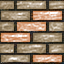
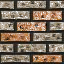
different levels for dungeon generation

diff --git a/src/dungeon/DungeonGenerator.java b/src/dungeon/DungeonGenerator.java
@@ -36,16 +36,43 @@ public class DungeonGenerator
 
         textbox = t;
     }
-    public int[][] getNewDungeon()
+    public int[][] getNewDungeon(int level)
     {
+        int[] texs = new int[3];
         this.mazeGen();
+        // convert maze into usable format of the engine
         for (int i = 0; i < dun.length; i++)
             for (int j = 0; j < dun[i].length; j++)
                 if (dun[i][j] == 0)
+                {
+                    switch (level)
+                    {
+                        case 1:
+                        {
+                            texs[0] = 1;
+                            texs[1] = 2;
+                            //texs[2] = 3;
+                            break;
+                        }
+                        case 2:
+                        {
+                            texs[0] = 3;
+                            texs[1] = 4;
+                            break;
+                        }
+                        case 3:
+                        {
+                            texs[0] = 5;
+                            texs[1] = 6;
+                            break;
+                        }
+                    }
+                    int rand =(int)(Math.random()*3);
                     if (i < dun.length/2)
-                        dun[i][j] = 4;
+                        dun[i][j] = texs[0];
                     else
-                        dun[i][j] = 2;
+                        dun[i][j] = texs[1];
+                }
                 else
                     dun[i][j] = 0;
         setRandomChest(10);

diff --git a/src/engine/Texture.java b/src/engine/Texture.java
@@ -15,7 +15,6 @@ public class Texture
     public static ArrayList<Texture> textures = new ArrayList<Texture>() {{
     add(new Texture("res/walls/greywall1.png", 64));
     add(new Texture("res/walls/greywall2.png", 64));
-    add(new Texture("res/walls/greywall3.png", 64));
     add(new Texture("res/walls/brownwall1.png", 64));
     add(new Texture("res/walls/brownwall2.png", 64));
     add(new Texture("res/walls/redwall1.png", 64));

diff --git a/src/engine/Engine.java b/src/engine/Engine.java
@@ -92,7 +92,7 @@ public class Engine extends JFrame implements Runnable
         blitImageList = new ArrayList<BlitImage>();
 
         dungeonMaster = new DungeonGenerator(15, player, textbox);
-        dungeon = dungeonMaster.getNewDungeon();
+        dungeon = dungeonMaster.getNewDungeon(1);
         player.updateDungeon(dungeon); // player requires dungeon
 
         //textbox.addMessage("looks super good");
